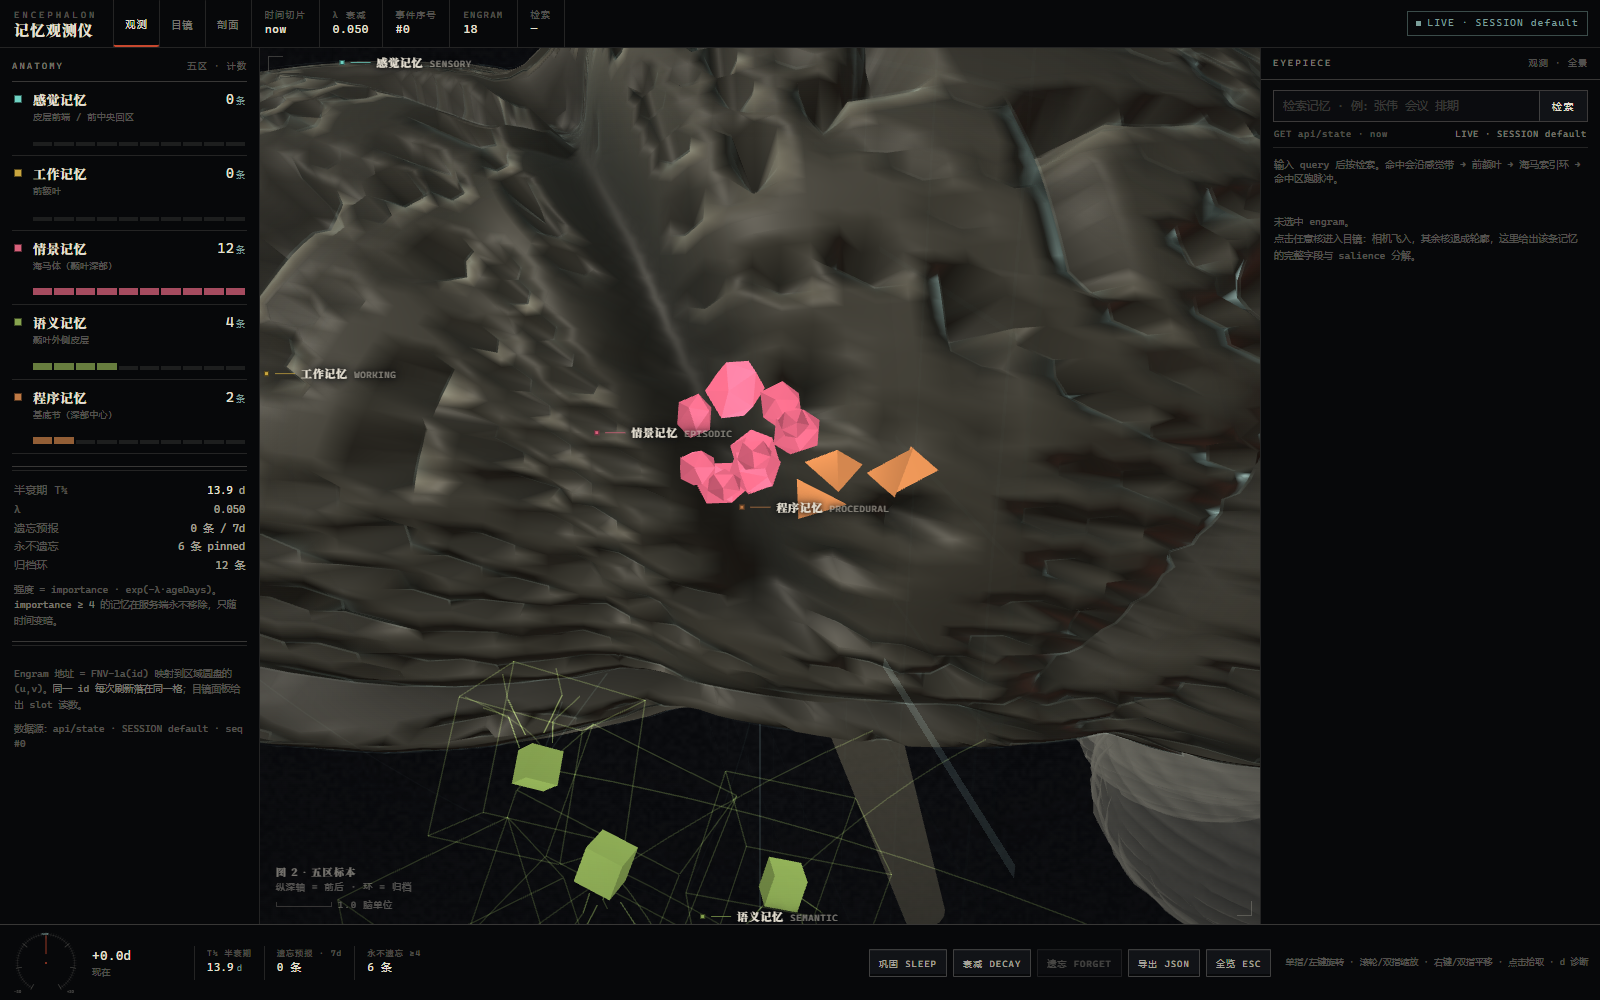
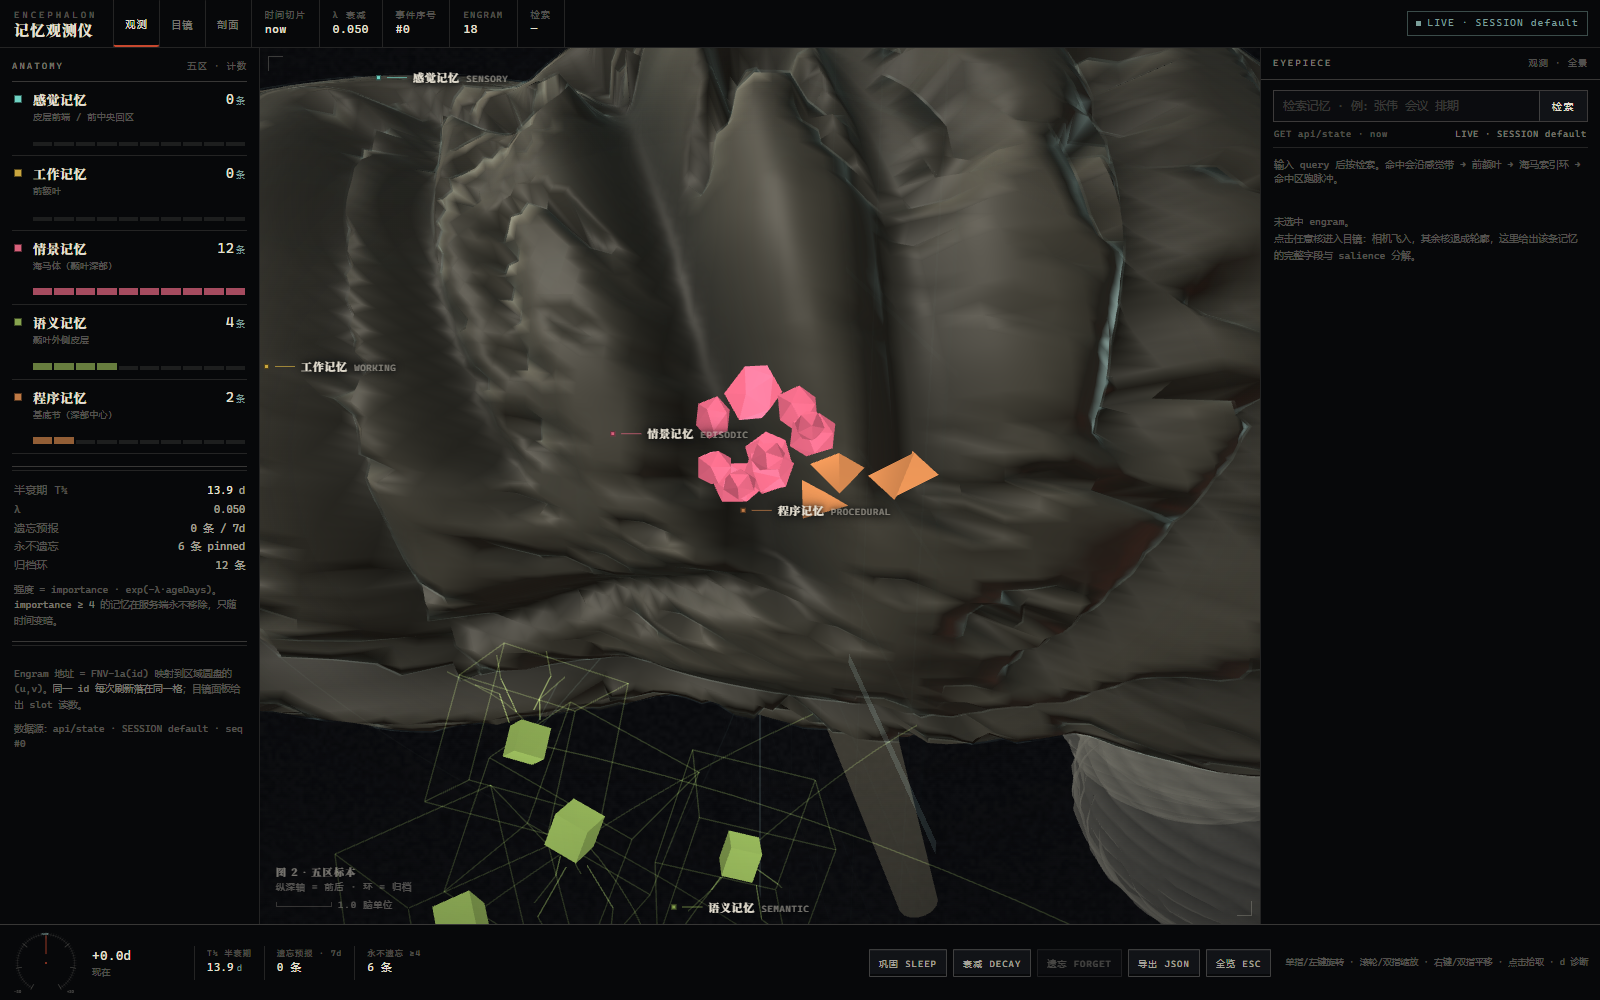
feat(3d): 一级沟骨架树（16 条含分叉）+ Voronoi 顶冠 + 相位加权融合

diff --git a/dist/deepseek-brain-3d.html b/dist/deepseek-brain-3d.html
@@ -959,12 +959,30 @@ globalThis.THREE=Object.freeze({ACESFilmicToneMapping:nt,AddEquation:M,AddOperat
        · 次级沟：以 d 为相位，沿骨架平行展开（并叠一点 fbm 让它们不那么规整）
      ==================================================================== */
   var SULCI = [
-    { id: 'central',  w: 0.070, depth: 1.00, pts: [[0.12, 0.92, 0.28], [0.30, 0.80, 0.22], [0.52, 0.62, 0.12], [0.74, 0.38, 0.02], [0.90, 0.10, -0.06]] },
-    { id: 'sylvian',  w: 0.080, depth: 1.05, pts: [[0.80, -0.20, 0.74], [0.90, -0.28, 0.42], [0.95, -0.30, 0.06], [0.94, -0.26, -0.28]] },
-    { id: 'parieto',  w: 0.058, depth: 0.86, pts: [[0.10, 0.70, -0.52], [0.38, 0.48, -0.56], [0.66, 0.20, -0.52], [0.86, -0.06, -0.44]] },
-    { id: 'sts',      w: 0.052, depth: 0.80, pts: [[0.86, -0.52, 0.62], [0.94, -0.56, 0.20], [0.95, -0.54, -0.22], [0.88, -0.50, -0.52]] },
-    { id: 'frontal',  w: 0.050, depth: 0.72, pts: [[0.55, 0.72, 0.55], [0.72, 0.55, 0.66], [0.88, 0.30, 0.70]] },
-    { id: 'cingulate', w: 0.046, depth: 0.70, pts: [[0.06, 0.72, 0.42], [0.10, 0.30, 0.10], [0.12, -0.10, -0.28]] }
+    /* 中央沟：主干 + 上端向后上的一段 + 下端向前下的一段（形成 Y 形分叉） */
+    { id: 'central',       w: 0.068, depth: 1.00, pts: [[0.10, 0.94, 0.20], [0.30, 0.84, 0.14], [0.55, 0.66, 0.06], [0.78, 0.40, -0.02], [0.92, 0.14, -0.10]] },
+    { id: 'central-asc',   w: 0.046, depth: 0.72, pts: [[0.10, 0.94, 0.20], [0.07, 0.97, -0.08], [0.05, 0.95, -0.32]] },
+    { id: 'central-desc',  w: 0.044, depth: 0.66, pts: [[0.92, 0.14, -0.10], [0.88, 0.02, 0.18], [0.80, -0.12, 0.42]] },
+    /* 中央前沟 / 中央后沟：夹出「中央前回 / 中央后回」两条带 */
+    { id: 'precentral',    w: 0.048, depth: 0.74, pts: [[0.10, 0.88, 0.48], [0.34, 0.78, 0.44], [0.60, 0.58, 0.38], [0.84, 0.32, 0.30]] },
+    { id: 'postcentral',   w: 0.046, depth: 0.70, pts: [[0.10, 0.88, -0.06], [0.34, 0.78, -0.12], [0.60, 0.58, -0.18], [0.84, 0.32, -0.24]] },
+    /* 外侧裂：主干 + 升支（隔开额下回与颞前部）+ 后支（伸向角回） */
+    { id: 'sylvian',       w: 0.082, depth: 1.05, pts: [[0.84, -0.18, 0.74], [0.92, -0.28, 0.42], [0.96, -0.32, 0.06], [0.94, -0.28, -0.30]] },
+    { id: 'sylvian-ramus', w: 0.050, depth: 0.78, pts: [[0.90, -0.16, 0.40], [0.84, 0.12, 0.44], [0.74, 0.36, 0.46]] },
+    { id: 'sylvian-post',  w: 0.048, depth: 0.74, pts: [[0.94, -0.28, -0.30], [0.88, -0.22, -0.56], [0.76, -0.12, -0.74]] },
+    /* 额叶 */
+    { id: 'frontal-sup',   w: 0.046, depth: 0.68, pts: [[0.22, 0.94, 0.60], [0.42, 0.86, 0.60], [0.64, 0.70, 0.56], [0.82, 0.48, 0.52]] },
+    { id: 'frontal-inf',   w: 0.044, depth: 0.64, pts: [[0.32, 0.62, 0.74], [0.52, 0.50, 0.72], [0.74, 0.34, 0.68]] },
+    /* 顶叶 */
+    { id: 'intraparietal', w: 0.046, depth: 0.66, pts: [[0.30, 0.78, -0.34], [0.52, 0.62, -0.40], [0.74, 0.40, -0.44]] },
+    /* 颞叶 */
+    { id: 'sts',           w: 0.054, depth: 0.82, pts: [[0.86, -0.54, 0.62], [0.94, -0.58, 0.20], [0.95, -0.56, -0.22], [0.88, -0.52, -0.52]] },
+    { id: 'temporal-inf',  w: 0.044, depth: 0.62, pts: [[0.84, -0.74, 0.44], [0.90, -0.78, 0.04], [0.88, -0.76, -0.34]] },
+    /* 枕叶 */
+    { id: 'parieto',       w: 0.052, depth: 0.80, pts: [[0.10, 0.70, -0.52], [0.38, 0.48, -0.56], [0.66, 0.20, -0.52], [0.86, -0.06, -0.44]] },
+    { id: 'calcarine',     w: 0.046, depth: 0.70, pts: [[0.20, 0.06, -0.84], [0.46, 0.02, -0.80], [0.72, -0.04, -0.72]] },
+    /* 内侧面（剖面才看得见） */
+    { id: 'cingulate',     w: 0.044, depth: 0.66, pts: [[0.06, 0.74, 0.42], [0.10, 0.32, 0.10], [0.12, -0.08, -0.26]] }
   ];
   (function normalizeSulci() {
     SULCI.forEach(function (s) {
@@ -983,11 +1001,16 @@ globalThis.THREE=Object.freeze({ACESFilmicToneMapping:nt,AddEquation:M,AddOperat
     });
   })();
 
-  var _sk = { d: 9, s: 0, w: 0.06, depth: 0.8 };
-  function nearestSulcus(px, py, pz) {
-    var best = 9, bestS = 0, bestW = 0.06, bestD = 0.8;
+  /* 一次遍历同时得到：最近沟 d1 / 次近沟 d2（Voronoi 用）、以及按
+     w_i = exp(-(d_i/0.30)²) 融合的相位——这样在两条沟的势力范围交界处，
+     脑回的走向是平滑过渡的，不会突然从「沿中央沟」跳到「沿中央前沟」。 */
+  var _sk = { d1: 9, d2: 9, w: 0.06, depth: 0.8, phase: 0, poids: 0 };
+  function sulcusField(px, py, pz) {
+    var d1 = 9, d2 = 9, bestW = 0.06, bestD = 0.8;
+    var accW = 0, accP = 0;
     for (var k = 0; k < SULCI.length; k++) {
       var sk = SULCI[k];
+      var best = 9, bestS = 0;
       for (var i = 0; i < sk.v.length - 1; i++) {
         var a = sk.v[i], b = sk.v[i + 1];
         var ex = b[0] - a[0], ey = b[1] - a[1], ez = b[2] - a[2];
@@ -1000,32 +1023,39 @@ globalThis.THREE=Object.freeze({ACESFilmicToneMapping:nt,AddEquation:M,AddOperat
         if (ang < best) {
           best = ang;
           bestS = (sk.len[i - 1] || 0) + (sk.len[i] - (sk.len[i - 1] || 0)) * tt;
-          bestW = sk.w;
-          bestD = sk.depth;
         }
       }
+      if (best < d1) { d2 = d1; d1 = best; bestW = sk.w; bestD = sk.depth; }
+      else if (best < d2) { d2 = best; }
+      var r = best / 0.30;
+      var wk = Math.exp(-r * r);
+      accW += wk;
+      accP += wk * (bestS * 1.05 + best * 17.0);
     }
-    _sk.d = best; _sk.s = bestS / 1.0; _sk.w = bestW; _sk.depth = bestD;
+    _sk.d1 = d1; _sk.d2 = d2; _sk.w = bestW; _sk.depth = bestD;
+    _sk.poids = accW;
+    _sk.phase = accW > 1e-9 ? accP / accW : d1 * 12.5;
     return _sk;
   }
 
   function hemiPoint(px, py, pz, side) {
     var warpA = fbm(px * 3.1 + 11.3, py * 3.1 - 4.1, pz * 3.1 + 7.7, 3);
     var warpB = fbm(px * 4.6 - 2.9, py * 4.6 + 9.2, pz * 4.6 - 5.4, 3);
-    var near = nearestSulcus(px, py, pz);
-    var d = near.d;
-    /* 一级沟：以骨架为中心的深槽 */
-    var primary = Math.exp(-Math.pow(d / near.w, 2.0)) * near.depth;
-    /* 次级沟：沿骨架平行展开，相位就是角距离（再加 fbm 扰动与前后的弧长项） */
-    var phase = (d * 12.5 + near.s * 1.05 + warpA * 0.48 + warpB * 0.22) * Math.PI;
+    var near = sulcusField(px, py, pz);
+    /* 一级沟：以骨架为中心的深槽，宽度取自它自己那一条 */
+    var primary = Math.exp(-Math.pow(near.d1 / near.w, 2.0)) * near.depth;
+    /* 次级沟：相位由「弧长 + 到沟的距离」混合而成，沿最近的沟平行铺开 */
+    var phase = (near.phase + warpA * 0.48 + warpB * 0.22) * Math.PI;
     var band = Math.abs(Math.sin(phase));
-    var secondary = (1 - smoothstep(0.0, 0.26, band)) * 0.95;
-    /* 三级：更细的一族，压掉「同心圆」的机械感 */
-    var tert = Math.abs(Math.sin((d * 30.0 - near.s * 1.8 + warpB * 1.0) * Math.PI));
-    var tertiary = (1 - smoothstep(0.0, 0.15, tert)) * 0.30;
+    var secondary = (1 - smoothstep(0.0, 0.215, band)) * 0.88;
+    /* 三级：同相位的倍频，压掉「同心圆」的机械感 */
+    var tert = Math.abs(Math.sin((near.phase * 2.6 - warpB * 1.0) * Math.PI));
+    var tertiary = (1 - smoothstep(0.0, 0.13, tert)) * 0.24;
+    /* Voronoi：两条一级沟势力范围的分界线上抬成脑回顶冠，避免出现平台 */
+    var wall = near.d2 < 8 ? Math.exp(-Math.pow((near.d2 - near.d1) / 0.055, 2.0)) : 0;
     var sul = Math.max(primary, Math.max(secondary, tertiary));
-    var bump = (1 - sul) * 0.55 + 0.45 * warpA;
-    var disp = 1 + 0.092 * bump - 0.132 * sul;
+    var bump = (1 - sul) * 0.55 + 0.45 * warpA + 0.18 * wall;
+    var disp = 1 + 0.094 * bump - 0.118 * sul;
     /* 叶形半径：同一条射线上的边界由四叶并集给出，不再是单位球 */
     var lobe = lobeRadius(px, py, pz, side) * LOBE_K;
     var mx = softMax(px, 0.018, 0.085);

diff --git a/web/brain-3d.html b/web/brain-3d.html
@@ -947,12 +947,30 @@
        · 次级沟：以 d 为相位，沿骨架平行展开（并叠一点 fbm 让它们不那么规整）
      ==================================================================== */
   var SULCI = [
-    { id: 'central',  w: 0.070, depth: 1.00, pts: [[0.12, 0.92, 0.28], [0.30, 0.80, 0.22], [0.52, 0.62, 0.12], [0.74, 0.38, 0.02], [0.90, 0.10, -0.06]] },
-    { id: 'sylvian',  w: 0.080, depth: 1.05, pts: [[0.80, -0.20, 0.74], [0.90, -0.28, 0.42], [0.95, -0.30, 0.06], [0.94, -0.26, -0.28]] },
-    { id: 'parieto',  w: 0.058, depth: 0.86, pts: [[0.10, 0.70, -0.52], [0.38, 0.48, -0.56], [0.66, 0.20, -0.52], [0.86, -0.06, -0.44]] },
-    { id: 'sts',      w: 0.052, depth: 0.80, pts: [[0.86, -0.52, 0.62], [0.94, -0.56, 0.20], [0.95, -0.54, -0.22], [0.88, -0.50, -0.52]] },
-    { id: 'frontal',  w: 0.050, depth: 0.72, pts: [[0.55, 0.72, 0.55], [0.72, 0.55, 0.66], [0.88, 0.30, 0.70]] },
-    { id: 'cingulate', w: 0.046, depth: 0.70, pts: [[0.06, 0.72, 0.42], [0.10, 0.30, 0.10], [0.12, -0.10, -0.28]] }
+    /* 中央沟：主干 + 上端向后上的一段 + 下端向前下的一段（形成 Y 形分叉） */
+    { id: 'central',       w: 0.068, depth: 1.00, pts: [[0.10, 0.94, 0.20], [0.30, 0.84, 0.14], [0.55, 0.66, 0.06], [0.78, 0.40, -0.02], [0.92, 0.14, -0.10]] },
+    { id: 'central-asc',   w: 0.046, depth: 0.72, pts: [[0.10, 0.94, 0.20], [0.07, 0.97, -0.08], [0.05, 0.95, -0.32]] },
+    { id: 'central-desc',  w: 0.044, depth: 0.66, pts: [[0.92, 0.14, -0.10], [0.88, 0.02, 0.18], [0.80, -0.12, 0.42]] },
+    /* 中央前沟 / 中央后沟：夹出「中央前回 / 中央后回」两条带 */
+    { id: 'precentral',    w: 0.048, depth: 0.74, pts: [[0.10, 0.88, 0.48], [0.34, 0.78, 0.44], [0.60, 0.58, 0.38], [0.84, 0.32, 0.30]] },
+    { id: 'postcentral',   w: 0.046, depth: 0.70, pts: [[0.10, 0.88, -0.06], [0.34, 0.78, -0.12], [0.60, 0.58, -0.18], [0.84, 0.32, -0.24]] },
+    /* 外侧裂：主干 + 升支（隔开额下回与颞前部）+ 后支（伸向角回） */
+    { id: 'sylvian',       w: 0.082, depth: 1.05, pts: [[0.84, -0.18, 0.74], [0.92, -0.28, 0.42], [0.96, -0.32, 0.06], [0.94, -0.28, -0.30]] },
+    { id: 'sylvian-ramus', w: 0.050, depth: 0.78, pts: [[0.90, -0.16, 0.40], [0.84, 0.12, 0.44], [0.74, 0.36, 0.46]] },
+    { id: 'sylvian-post',  w: 0.048, depth: 0.74, pts: [[0.94, -0.28, -0.30], [0.88, -0.22, -0.56], [0.76, -0.12, -0.74]] },
+    /* 额叶 */
+    { id: 'frontal-sup',   w: 0.046, depth: 0.68, pts: [[0.22, 0.94, 0.60], [0.42, 0.86, 0.60], [0.64, 0.70, 0.56], [0.82, 0.48, 0.52]] },
+    { id: 'frontal-inf',   w: 0.044, depth: 0.64, pts: [[0.32, 0.62, 0.74], [0.52, 0.50, 0.72], [0.74, 0.34, 0.68]] },
+    /* 顶叶 */
+    { id: 'intraparietal', w: 0.046, depth: 0.66, pts: [[0.30, 0.78, -0.34], [0.52, 0.62, -0.40], [0.74, 0.40, -0.44]] },
+    /* 颞叶 */
+    { id: 'sts',           w: 0.054, depth: 0.82, pts: [[0.86, -0.54, 0.62], [0.94, -0.58, 0.20], [0.95, -0.56, -0.22], [0.88, -0.52, -0.52]] },
+    { id: 'temporal-inf',  w: 0.044, depth: 0.62, pts: [[0.84, -0.74, 0.44], [0.90, -0.78, 0.04], [0.88, -0.76, -0.34]] },
+    /* 枕叶 */
+    { id: 'parieto',       w: 0.052, depth: 0.80, pts: [[0.10, 0.70, -0.52], [0.38, 0.48, -0.56], [0.66, 0.20, -0.52], [0.86, -0.06, -0.44]] },
+    { id: 'calcarine',     w: 0.046, depth: 0.70, pts: [[0.20, 0.06, -0.84], [0.46, 0.02, -0.80], [0.72, -0.04, -0.72]] },
+    /* 内侧面（剖面才看得见） */
+    { id: 'cingulate',     w: 0.044, depth: 0.66, pts: [[0.06, 0.74, 0.42], [0.10, 0.32, 0.10], [0.12, -0.08, -0.26]] }
   ];
   (function normalizeSulci() {
     SULCI.forEach(function (s) {
@@ -971,11 +989,16 @@
     });
   })();
 
-  var _sk = { d: 9, s: 0, w: 0.06, depth: 0.8 };
-  function nearestSulcus(px, py, pz) {
-    var best = 9, bestS = 0, bestW = 0.06, bestD = 0.8;
+  /* 一次遍历同时得到：最近沟 d1 / 次近沟 d2（Voronoi 用）、以及按
+     w_i = exp(-(d_i/0.30)²) 融合的相位——这样在两条沟的势力范围交界处，
+     脑回的走向是平滑过渡的，不会突然从「沿中央沟」跳到「沿中央前沟」。 */
+  var _sk = { d1: 9, d2: 9, w: 0.06, depth: 0.8, phase: 0, poids: 0 };
+  function sulcusField(px, py, pz) {
+    var d1 = 9, d2 = 9, bestW = 0.06, bestD = 0.8;
+    var accW = 0, accP = 0;
     for (var k = 0; k < SULCI.length; k++) {
       var sk = SULCI[k];
+      var best = 9, bestS = 0;
       for (var i = 0; i < sk.v.length - 1; i++) {
         var a = sk.v[i], b = sk.v[i + 1];
         var ex = b[0] - a[0], ey = b[1] - a[1], ez = b[2] - a[2];
@@ -988,32 +1011,39 @@
         if (ang < best) {
           best = ang;
           bestS = (sk.len[i - 1] || 0) + (sk.len[i] - (sk.len[i - 1] || 0)) * tt;
-          bestW = sk.w;
-          bestD = sk.depth;
         }
       }
+      if (best < d1) { d2 = d1; d1 = best; bestW = sk.w; bestD = sk.depth; }
+      else if (best < d2) { d2 = best; }
+      var r = best / 0.30;
+      var wk = Math.exp(-r * r);
+      accW += wk;
+      accP += wk * (bestS * 1.05 + best * 17.0);
     }
-    _sk.d = best; _sk.s = bestS / 1.0; _sk.w = bestW; _sk.depth = bestD;
+    _sk.d1 = d1; _sk.d2 = d2; _sk.w = bestW; _sk.depth = bestD;
+    _sk.poids = accW;
+    _sk.phase = accW > 1e-9 ? accP / accW : d1 * 12.5;
     return _sk;
   }
 
   function hemiPoint(px, py, pz, side) {
     var warpA = fbm(px * 3.1 + 11.3, py * 3.1 - 4.1, pz * 3.1 + 7.7, 3);
     var warpB = fbm(px * 4.6 - 2.9, py * 4.6 + 9.2, pz * 4.6 - 5.4, 3);
-    var near = nearestSulcus(px, py, pz);
-    var d = near.d;
-    /* 一级沟：以骨架为中心的深槽 */
-    var primary = Math.exp(-Math.pow(d / near.w, 2.0)) * near.depth;
-    /* 次级沟：沿骨架平行展开，相位就是角距离（再加 fbm 扰动与前后的弧长项） */
-    var phase = (d * 12.5 + near.s * 1.05 + warpA * 0.48 + warpB * 0.22) * Math.PI;
+    var near = sulcusField(px, py, pz);
+    /* 一级沟：以骨架为中心的深槽，宽度取自它自己那一条 */
+    var primary = Math.exp(-Math.pow(near.d1 / near.w, 2.0)) * near.depth;
+    /* 次级沟：相位由「弧长 + 到沟的距离」混合而成，沿最近的沟平行铺开 */
+    var phase = (near.phase + warpA * 0.48 + warpB * 0.22) * Math.PI;
     var band = Math.abs(Math.sin(phase));
-    var secondary = (1 - smoothstep(0.0, 0.26, band)) * 0.95;
-    /* 三级：更细的一族，压掉「同心圆」的机械感 */
-    var tert = Math.abs(Math.sin((d * 30.0 - near.s * 1.8 + warpB * 1.0) * Math.PI));
-    var tertiary = (1 - smoothstep(0.0, 0.15, tert)) * 0.30;
+    var secondary = (1 - smoothstep(0.0, 0.215, band)) * 0.88;
+    /* 三级：同相位的倍频，压掉「同心圆」的机械感 */
+    var tert = Math.abs(Math.sin((near.phase * 2.6 - warpB * 1.0) * Math.PI));
+    var tertiary = (1 - smoothstep(0.0, 0.13, tert)) * 0.24;
+    /* Voronoi：两条一级沟势力范围的分界线上抬成脑回顶冠，避免出现平台 */
+    var wall = near.d2 < 8 ? Math.exp(-Math.pow((near.d2 - near.d1) / 0.055, 2.0)) : 0;
     var sul = Math.max(primary, Math.max(secondary, tertiary));
-    var bump = (1 - sul) * 0.55 + 0.45 * warpA;
-    var disp = 1 + 0.092 * bump - 0.132 * sul;
+    var bump = (1 - sul) * 0.55 + 0.45 * warpA + 0.18 * wall;
+    var disp = 1 + 0.094 * bump - 0.118 * sul;
     /* 叶形半径：同一条射线上的边界由四叶并集给出，不再是单位球 */
     var lobe = lobeRadius(px, py, pz, side) * LOBE_K;
     var mx = softMax(px, 0.018, 0.085);

diff --git a/README.md b/README.md
@@ -341,7 +341,12 @@ node tools/build-3d.mjs      # 生成 dist/deepseek-brain-3d.html
 
 - 皮层不再是一颗椭球：`LOBE_C` 定义额/顶/枕/颞四叶的椭球场（`[cx,cy,cz, rx,ry,rz, mirror]`，颞叶按半球镜像），用 polynomial smooth-max（`k = 0.14`）求并集，再沿每个顶点方向二分 16 次求边界半径 `lobeRadius()`；`LOBE_K` 把并集最大半径归一到 1。于是额极收窄、顶点抬高、枕极圆钝、颞叶外凸——这些都是几何而不是贴图。
 - 两个**闭合**半球：内侧顶点被 softMax 折到 `x ≈ ±gapHalf` 的墙面上，两壁之间是真缝（纵裂）；脑底面在颅底处压平（`py < -0.30` 后的 0.58 折减）。
-- 沟回不用全局斜条纹，而是**一级沟骨架**：`SULCI` 定义中央沟、外侧裂、顶枕沟、颞上沟、额上沟、扣带沟六条折线（单位球方向空间），每个顶点求到最近骨架的角距离 `d` 与弧长 `s`——`d ≈ 0` 处按各自宽度 `w` 开深槽（`exp(-(d/w)²)`），次级沟以 `d` 为相位沿骨架平行展开（`sin(d·12.5 + s·1.05 + fbm)`），三级沟再叠一层细相位打散同心感；`disp = 1 + 0.092·bump − 0.132·sul`。中央沟与外侧裂因此是真正的分叶深沟，不是画上去的线。
+- 沟回由**带分叉的一级沟骨架树**驱动：`SULCI` 里的 16 条折线（中央沟主干 + 上支 + 下支、中央前/后沟、外侧裂主干 + 升支 + 后支、额上/额下沟、顶内沟、颞上/颞下沟、顶枕沟、距状沟、扣带沟）都定义在单位球方向空间；每个顶点一次遍历算出到最近骨架的角距离 `d1`、到次近骨架的 `d2` 与按 `w=exp(−(d/0.30)²)` 融合的相位——
+  - 一级沟：`d1≈0` 处按各自宽度开深槽 `exp(−(d1/w)²)·depth`；
+  - 次级沟：相位 = 加权平均的 `(弧长·1.05 + d·17.0)`，所以脑回走向在两条沟的势力边界上是**平滑过渡**的，不会突然换向；
+  - 三级沟：同相位倍频 `2.6×`，压掉同心圆；
+  - **Voronoi 顶冠**：`wall = exp(−((d2−d1)/0.055)²)` 在两条沟的分界线上把皮层抬起来，于是两沟之间是圆隆的脑回顶，而不是平台。
+  合成 `bump = (1−sul)·0.55 + 0.45·warpA + 0.18·wall`，`disp = 1 + 0.094·bump − 0.118·sul`。中央沟与外侧裂因此是真正的分叶深沟，不是画上去的线。
 - 小脑是两半球 + 蚓部三个网格（共用一份叶片条纹几何），脑干与桥脑独立。
 - 皮层用 `MeshStandardMaterial` 承接真实定向光（key/fill/rim 三灯 + 半球光），顶点色承载沟回的「沟底变暗」；engram 用 `depthTest:false` 的 X 光叠加，所以能隔着皮质看到深部结构——这是仪器语义，不是穿模。
 - 剖面切面是**解析式着色器**：`vUv` 上算灰质带（`smoothstep(rim-0.19, rim-0.05, r)`）、皮质-白质交界亮线、胼胝体弧、穹窿、侧脑室、基底节，再叠一层 hash 颗粒与沿灰质带的沟刻痕；不经过纹理，所以没有色彩空间损耗。
